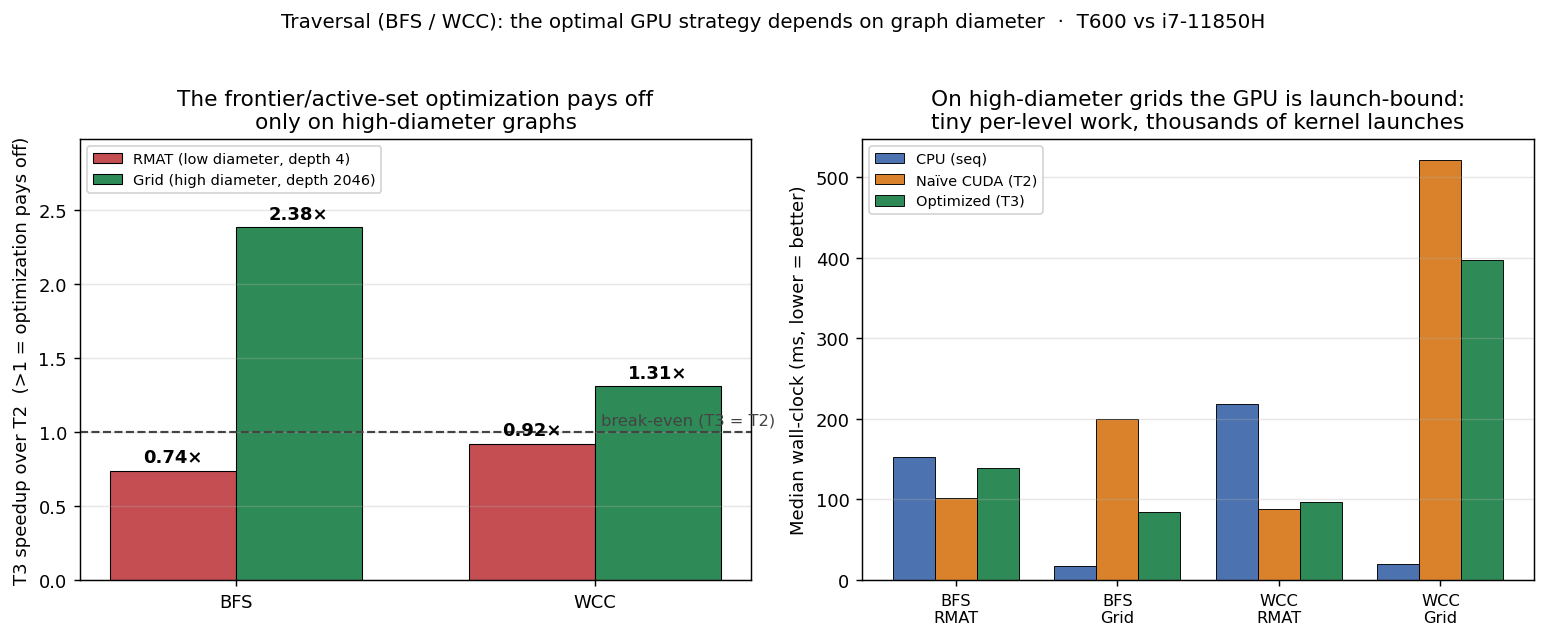
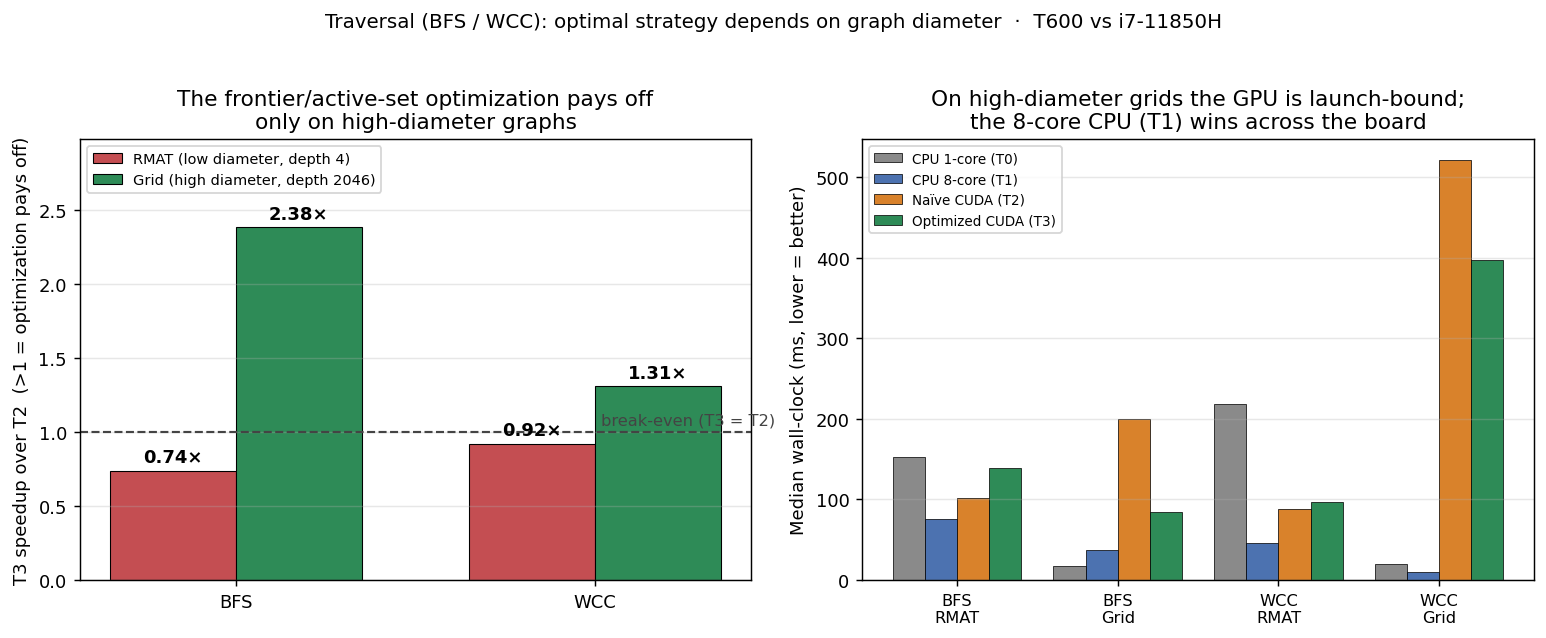
Phase 4 complete + honest multi-core CPU baselines; consistent figures from one dataset

diff --git a/scripts/make_figures.py b/scripts/make_figures.py
@@ -1,0 +1,128 @@
+#!/usr/bin/env python3
+"""Regenerate every results figure from ONE consistent dataset, so the README
+tables and charts never disagree. All numbers are median-of-10 wall-clock (ms)
+measured on NVIDIA T600 (sm_75, 4 GB) vs Intel i7-11850H (8c/16t), CUDA 12.8.
+
+Tiers: T0 = sequential C++ ; T1 = OpenMP (8 threads) ; T2 = naive CUDA ;
+       T3 = optimized CUDA.
+"""
+import matplotlib
+matplotlib.use("Agg")
+import matplotlib.pyplot as plt
+import numpy as np
+
+# ---- canonical dataset ------------------------------------------------------
+# RMAT s20-ef16: 2^20 vertices, 33.5M edges, BFS depth 4  (low diameter)
+RMAT = {
+    "BFS":      {"T0": 153.109, "T1": 75.1992, "T2": 102.278, "T3": 138.559},
+    "WCC":      {"T0": 218.655, "T1": 46.2037, "T2": 88.6794, "T3": 96.3744},
+    "PageRank": {"T0": 1866.93, "T1": 744.683, "T2": 4386.55, "T3": 1153.61},
+}
+# Grid 1024: 2^20 vertices, 4.2M edges, BFS depth 2046  (high diameter)
+GRID = {
+    "BFS": {"T0": 17.483,  "T1": 36.9317, "T2": 200.092, "T3": 83.9267},
+    "WCC": {"T0": 19.5131, "T1": 9.3099,  "T2": 521.535, "T3": 397.896},
+}
+
+COL = {"T0": "#8a8a8a", "T1": "#4c72b0", "T2": "#d9822b", "T3": "#2e8b57"}
+NAME = {"T0": "CPU 1-core (T0)", "T1": "CPU 8-core (T1)",
+        "T2": "Naïve CUDA (T2)", "T3": "Optimized CUDA (T3)"}
+
+
+def dump_csv():
+    import io
+    lines = ["algo,graph,tier,median_ms"]
+    for graph, d in (("rmat-s20-ef16", RMAT), ("grid-1024", GRID)):
+        for algo, row in d.items():
+            for tier, ms in row.items():
+                lines.append(f"{algo},{graph},{tier},{ms}")
+    with open("results/benchmarks.csv", "w") as f:
+        f.write("\n".join(lines) + "\n")
+    print("wrote results/benchmarks.csv")
+
+
+# ---- Figure 1: naive GPU (T2) vs both CPU baselines, on RMAT ----------------
+def fig_t2():
+    algos = ["BFS", "WCC", "PageRank"]
+    vs_t0 = [RMAT[a]["T0"] / RMAT[a]["T2"] for a in algos]
+    vs_t1 = [RMAT[a]["T1"] / RMAT[a]["T2"] for a in algos]
+    x = np.arange(len(algos)); w = 0.35
+    fig, ax = plt.subplots(figsize=(8.2, 4.6))
+    b1 = ax.bar(x - w/2, vs_t0, w, label="vs CPU 1-core (T0)", color="#9ecae1", edgecolor="black", lw=0.6)
+    b2 = ax.bar(x + w/2, vs_t1, w, label="vs CPU 8-core (T1)", color="#08519c", edgecolor="black", lw=0.6)
+    ax.axhline(1.0, color="#444", ls="--", lw=1.2)
+    ax.text(len(algos)-0.5, 1.03, "break-even", ha="right", va="bottom", fontsize=9, color="#444")
+    for bars in (b1, b2):
+        for b in bars:
+            ax.text(b.get_x()+b.get_width()/2, b.get_height()+0.03, f"{b.get_height():.2f}×",
+                    ha="center", va="bottom", fontsize=9, fontweight="bold")
+    ax.set_xticks(x); ax.set_xticklabels(algos)
+    ax.set_ylabel("Naïve-CUDA (T2) speedup  (>1 = GPU faster)")
+    ax.set_title("Phase 3 — naïve GPU beats a single CPU core (except PageRank),\nbut not the 8-core CPU  ·  RMAT 2²⁰ / 33.5M edges")
+    ax.set_ylim(0, max(vs_t0+vs_t1)*1.25); ax.grid(axis="y", alpha=0.3); ax.legend(fontsize=9)
+    fig.tight_layout(); fig.savefig("docs/img/cuda_t2.png", dpi=130, bbox_inches="tight")
+    print("wrote docs/img/cuda_t2.png")
+
+
+# ---- Figure 2: PageRank T0/T1/T2/T3 absolute times -------------------------
+def fig_t3():
+    tiers = ["T0", "T1", "T2", "T3"]
+    times = [RMAT["PageRank"][t] for t in tiers]
+    fig, ax = plt.subplots(figsize=(8.2, 4.6))
+    bars = ax.bar([NAME[t] for t in tiers], times, color=[COL[t] for t in tiers],
+                  edgecolor="black", lw=0.6, width=0.62)
+    for b, t in zip(bars, times):
+        ax.text(b.get_x()+b.get_width()/2, t+70, f"{t:.0f} ms",
+                ha="center", va="bottom", fontsize=10, fontweight="bold")
+    ax.set_ylabel("Median wall-clock (ms, lower = better)")
+    ax.set_title("Phase 4 — Optimized CUDA (T3) PageRank\n"
+                 "3.8× faster than naïve GPU · 1.62× vs 1 core · still behind the 8-core CPU")
+    ax.set_ylim(0, max(times)*1.16); ax.grid(axis="y", alpha=0.3)
+    plt.setp(ax.get_xticklabels(), fontsize=9)
+    fig.tight_layout(); fig.savefig("docs/img/cuda_t3.png", dpi=130, bbox_inches="tight")
+    print("wrote docs/img/cuda_t3.png")
+
+
+# ---- Figure 3: diameter crossover ------------------------------------------
+def fig_crossover():
+    fig, (axL, axR) = plt.subplots(1, 2, figsize=(12, 4.8))
+    algos = ["BFS", "WCC"]
+    rmat_r = [RMAT[a]["T2"] / RMAT[a]["T3"] for a in algos]
+    grid_r = [GRID[a]["T2"] / GRID[a]["T3"] for a in algos]
+    x = np.arange(len(algos)); w = 0.35
+    b1 = axL.bar(x - w/2, rmat_r, w, label="RMAT (low diameter, depth 4)", color="#c44e52", edgecolor="black", lw=0.6)
+    b2 = axL.bar(x + w/2, grid_r, w, label="Grid (high diameter, depth 2046)", color="#2e8b57", edgecolor="black", lw=0.6)
+    axL.axhline(1.0, color="#444", ls="--", lw=1.2)
+    axL.text(len(algos)-0.5, 1.03, "break-even (T3 = T2)", ha="right", va="bottom", fontsize=9, color="#444")
+    for bars in (b1, b2):
+        for b in bars:
+            axL.text(b.get_x()+b.get_width()/2, b.get_height()+0.03, f"{b.get_height():.2f}×",
+                     ha="center", va="bottom", fontsize=10, fontweight="bold")
+    axL.set_xticks(x); axL.set_xticklabels(algos)
+    axL.set_ylabel("T3 speedup over T2  (>1 = optimization pays off)")
+    axL.set_title("The frontier/active-set optimization pays off\nonly on high-diameter graphs")
+    axL.set_ylim(0, max(rmat_r+grid_r)*1.25); axL.legend(fontsize=8, loc="upper left"); axL.grid(axis="y", alpha=0.3)
+
+    labels = ["BFS\nRMAT", "BFS\nGrid", "WCC\nRMAT", "WCC\nGrid"]
+    keys = [(RMAT, "BFS"), (GRID, "BFS"), (RMAT, "WCC"), (GRID, "WCC")]
+    series = {t: [d[a][t] for (d, a) in keys] for t in ("T0", "T1", "T2", "T3")}
+    x = np.arange(len(labels)); w = 0.2
+    for i, t in enumerate(("T0", "T1", "T2", "T3")):
+        axR.bar(x + (i-1.5)*w, series[t], w, label=NAME[t], color=COL[t], edgecolor="black", lw=0.4)
+    axR.set_xticks(x); axR.set_xticklabels(labels, fontsize=9)
+    axR.set_ylabel("Median wall-clock (ms, lower = better)")
+    axR.set_title("On high-diameter grids the GPU is launch-bound;\nthe 8-core CPU (T1) wins across the board")
+    axR.legend(fontsize=7.5); axR.grid(axis="y", alpha=0.3)
+
+    fig.suptitle("Traversal (BFS / WCC): optimal strategy depends on graph diameter  ·  T600 vs i7-11850H",
+                 fontsize=11, y=1.02)
+    fig.tight_layout(); fig.savefig("docs/img/crossover.png", dpi=130, bbox_inches="tight")
+    print("wrote docs/img/crossover.png")
+
+
+if __name__ == "__main__":
+    dump_csv(); fig_t2(); fig_t3(); fig_crossover()
+    # handy ratios
+    for a in ("BFS", "WCC", "PageRank"):
+        r = RMAT[a]
+        print(f"RMAT {a}: T2 vs T1={r['T1']/r['T2']:.2f}x, T3 vs T1={r['T1']/r['T3']:.2f}x")

diff --git a/README.md b/README.md
@@ -13,7 +13,7 @@ This is an **empirical study**, not a claim of a new algorithm. Its value — li
   <a href="#references">References</a>
 </p>
 
-> **Status:** 🚧 Phases 1–4 complete — sequential (T0), OpenMP (T1), naïve CUDA (T2) and **optimized CUDA (T3)** for BFS / PageRank / WCC, plus a sequential Louvain (T0) and a binary→call-graph extractor. All GPU results validated against the T0 oracle (GPU correctness, including a 254-level high-diameter case, is a CI test). Real CPU / GPU results below. Headline findings: **T3 turns PageRank from a 0.43× GPU loss into a 1.62× win**; and for traversal, **the best GPU strategy depends on graph diameter** — the T3 frontier/active-set optimization *loses* on shallow power-law graphs but *wins 2.4×* on high-diameter graphs, where the GPU itself becomes launch-bound. Advanced load balancing (T4) is next on the [roadmap](#roadmap).
+> **Status:** 🚧 Phases 1–4 complete — sequential (T0), OpenMP (T1), naïve CUDA (T2) and **optimized CUDA (T3)** for BFS / PageRank / WCC, plus a sequential Louvain (T0) and a binary→call-graph extractor. Every GPU result is validated against the T0 oracle (GPU correctness, including a 254-level high-diameter case, is a CI test), and every GPU number is reported against **both** a single CPU core and the full 8-core OpenMP tier. Headline findings, all honest: **(1)** the T3 optimizations are large and real *as techniques* — PageRank T3 is **3.8× faster than naïve GPU**, BFS-on-grid **2.4×**; **(2)** the best traversal strategy **depends on graph diameter** (the frontier/active-set optimization loses on shallow graphs, wins on high-diameter ones); **(3)** on *this* hardware — an entry-level 4 GB T600 vs a strong 8-core i7 — the **multi-core CPU wins on these mid-size graphs**, a candid result about entry GPUs, not a marketing number. Advanced load balancing (T4) and a 100M+-edge scale study are next on the [roadmap](#roadmap).
 
 ---
 
@@ -97,28 +97,34 @@ sequential oracle exactly (BFS, WCC) / within tolerance (PageRank).
 
 ![Naïve CUDA vs CPU](docs/img/cuda_t2.png)
 
-| Algorithm | CPU seq | Naïve CUDA (T2) | Speedup |
-|---|--:|--:|:--:|
-| **WCC** | 200.9 ms | 90.5 ms | **2.22×** |
-| **BFS** | 139.0 ms | 96.5 ms | **1.44×** |
-| **PageRank** | 1834 ms | 4296 ms | **0.43×** |
+Reported against **both** CPU baselines — a single core (T0) and the full 8-core
+OpenMP tier (T1) — so the GPU is judged against the *best* CPU, not just one core:
 
-The honest finding — and the reason this is a *study*:
+| Algorithm | CPU 1-core (T0) | CPU 8-core (T1) | Naïve CUDA (T2) | T2 vs T0 | T2 vs T1 |
+|---|--:|--:|--:|:--:|:--:|
+| **WCC** | 218.7 ms | 46.2 ms | 88.7 ms | 2.47× | 0.52× |
+| **BFS** | 153.1 ms | 75.2 ms | 102.3 ms | 1.50× | 0.74× |
+| **PageRank** | 1866.9 ms | 744.7 ms | 4386.6 ms | 0.43× | 0.17× |
 
-- **WCC and BFS already win** at the naïve tier on a large graph: enough work per
-  kernel to hide launch and transfer overhead. (On the smaller 2¹⁸ graph BFS was
-  *slower* — the GPU only pays off once the graph is big enough, itself a result
-  worth showing.)
-- **Naïve PageRank loses (0.43×)** — not because of the algorithm, but because its
-  two per-iteration reductions (dangling mass, L1 change) are single-address
-  `atomicAdd`s hammered by all N threads. That contention serializes the GPU. This
-  is the textbook naïve-reduction bottleneck, and it is exactly what the **T3**
-  tier fixes (block-level parallel reductions + shared memory).
+The honest finding — and the reason this is a *study*, not a benchmark ad:
+
+- **The naïve GPU beats a single CPU core** for WCC (2.5×) and BFS (1.5×), **but
+  loses to the 8-core CPU** on every algorithm. Comparing a GPU only to one core
+  is the classic way to inflate a result; against the real multi-core baseline
+  this entry-level T600 does not win at the naïve tier.
+- **Naïve PageRank loses to everything (0.43× vs 1 core)** — not because of the
+  algorithm, but because its two per-iteration reductions (dangling mass, L1
+  change) are single-address `atomicAdd`s hammered by all N threads. That
+  contention serializes the GPU. This is the textbook naïve-reduction bottleneck,
+  and it is exactly what the **T3** tier fixes.
 
 *This is the point of the tiered design: the tier that fails tells you which
-optimization matters next.*
+optimization matters next — and an honest baseline tells you whether the GPU was
+ever the right tool.*
 
-### Phase 4 — Optimized CUDA (T3): fixing PageRank
+### Phase 4 — Optimized CUDA (T3)
+
+#### PageRank: fixing the atomic-contention bottleneck
 
 T2 named the culprit; T3 removes it. Two changes, both textbook, both targeting
 the atomic-contention bottleneck the naïve tier exposed — and nothing else about
@@ -133,17 +139,23 @@ the numerical result changes (it is diffed against the T0 oracle in CI):
 
 ![Optimized CUDA (T3) PageRank](docs/img/cuda_t3.png)
 
-| PageRank (2²⁰ vertices, 33.5M edges) | Median time | vs CPU | vs naïve GPU |
+| PageRank (2²⁰ vertices, 33.5M edges) | Median time | vs 1 core (T0) | vs naïve GPU (T2) |
 |---|--:|:--:|:--:|
-| CPU sequential (T0) | 1866.9 ms | 1.00× | — |
+| CPU 1-core (T0) | 1866.9 ms | 1.00× | — |
+| CPU 8-core (T1) | **744.7 ms** | 2.51× | — |
 | Naïve CUDA (T2) | 4386.6 ms | 0.43× | 1.00× |
 | **Optimized CUDA (T3)** | **1153.6 ms** | **1.62×** | **3.80×** |
 
-The optimized kernel is **3.8× faster than the naïve GPU version** and **1.62×
-faster than the CPU** — a full turnaround from the naïve tier's loss, achieved
-by attacking exactly the bottleneck the T2 measurement identified. This is the
-study's core claim in miniature: *the speedup is attributable to a specific,
-named technique* (parallel reduction), not to a rewrite.
+The optimized kernel is **3.8× faster than the naïve GPU version** — a full
+turnaround from the naïve tier's loss, achieved by attacking exactly the
+bottleneck the T2 measurement identified. That is the study's core claim in
+miniature: *the speedup is attributable to a specific, named technique* (parallel
+reduction), not to a rewrite. It also passes single-core CPU (1.62×). **The
+8-core CPU is still faster (744.7 ms)** — honest, and expected: the T600 is an
+entry-level 4 GB GPU and PageRank here is memory-bandwidth-bound, a fight a
+strong 8-core CPU with 24 MB of L3 wins at this graph size. The T3 *technique* is
+the transferable result; whether the T600 *hardware* wins is a separate question
+the roadmap's scale study (100M+ edges) is designed to answer.
 
 Run it yourself: `run_bench --algo pagerank --tier cuda_opt --rmat 20 --ef 16`.
 
@@ -161,12 +173,12 @@ is, which is set by the graph's **diameter**. So we measured both regimes:
 
 ![Diameter crossover](docs/img/crossover.png)
 
-| Algorithm | Graph | CPU seq | Naïve CUDA (T2) | Optimized (T3) | T3 vs T2 |
-|---|---|--:|--:|--:|:--:|
-| **BFS** | RMAT (depth 4)    | 153.1 ms | **102.3 ms** | 138.6 ms | 0.74× |
-| **BFS** | Grid (depth 2046) | **17.5 ms** | 200.1 ms | 83.9 ms | **2.38×** |
-| **WCC** | RMAT (depth 4)    | 218.7 ms | **88.7 ms** | 96.4 ms | 0.92× |
-| **WCC** | Grid (depth 2046) | **19.5 ms** | 521.5 ms | 397.9 ms | **1.31×** |
+| Algorithm | Graph | CPU 1-core | CPU 8-core | Naïve CUDA (T2) | Optimized (T3) | T3 vs T2 |
+|---|---|--:|--:|--:|--:|:--:|
+| **BFS** | RMAT (depth 4)    | 153.1 ms | **75.2 ms** | 102.3 ms | 138.6 ms | 0.74× |
+| **BFS** | Grid (depth 2046) | **17.5 ms** | 36.9 ms | 200.1 ms | 83.9 ms | **2.38×** |
+| **WCC** | RMAT (depth 4)    | 218.7 ms | **46.2 ms** | 88.7 ms | 96.4 ms | 0.92× |
+| **WCC** | Grid (depth 2046) | 19.5 ms | **9.3 ms** | 521.5 ms | 397.9 ms | **1.31×** |
 
 Two findings, both honest, both the point of a *study*:
 
@@ -179,16 +191,23 @@ Two findings, both honest, both the point of a *study*:
    diameter.
 
 2. **On high-diameter graphs the GPU itself is the wrong tool** — the CPU wins
-   outright (17.5 ms vs 83.9 ms for BFS). With 2046 levels of ~1000 vertices
-   each, every kernel launch and per-level host sync is amortized over almost no
-   work: the GPU is **launch/latency-bound**, while the CPU walks the frontier in
-   cache. T3 recovers a lot *within* the GPU tiers, but cannot beat the CPU here.
-   This is the regime where direction-optimizing BFS and CPU/GPU hybrids exist —
-   and knowing *which* regime you are in is the practical takeaway.
+   outright (BFS: 17.5 ms single-core vs 83.9 ms for the best GPU tier). With
+   2046 levels of ~1000 vertices each, every kernel launch and per-level host
+   sync is amortized over almost no work: the GPU is **launch/latency-bound**,
+   while the CPU walks the frontier in cache. T3 recovers a lot *within* the GPU
+   tiers, but cannot close the gap. A neat side-detail: for grid BFS even
+   *OpenMP is slower than one core* (36.9 vs 17.5 ms) — so little parallel work
+   per level that thread overhead dominates there too. This is the regime where
+   direction-optimizing BFS and CPU/GPU hybrids exist — and knowing *which*
+   regime you are in is the practical takeaway.
 
 Security graphs (call-graphs, network-flow graphs) are power-law and **shallow**
-— the RMAT regime — so the T2 verdict is the one that matters for the domain;
-the grid is the controlled contrast that explains *why*.
+— the RMAT regime — so the practical verdict for the domain is: on mid-size
+graphs a strong multi-core CPU is the sensible default, the naïve GPU tier does
+*not* justify the frontier optimization, and the GPU becomes attractive only at
+larger scale (the roadmap's scale study) or with the T4 load-balancing tier. The
+grid is the controlled contrast that explains *why* the diameter, not the raw
+size, decides which strategy wins.
 
 Run it yourself: `run_bench --algo bfs --tier cuda_opt --grid 1024`.
 
